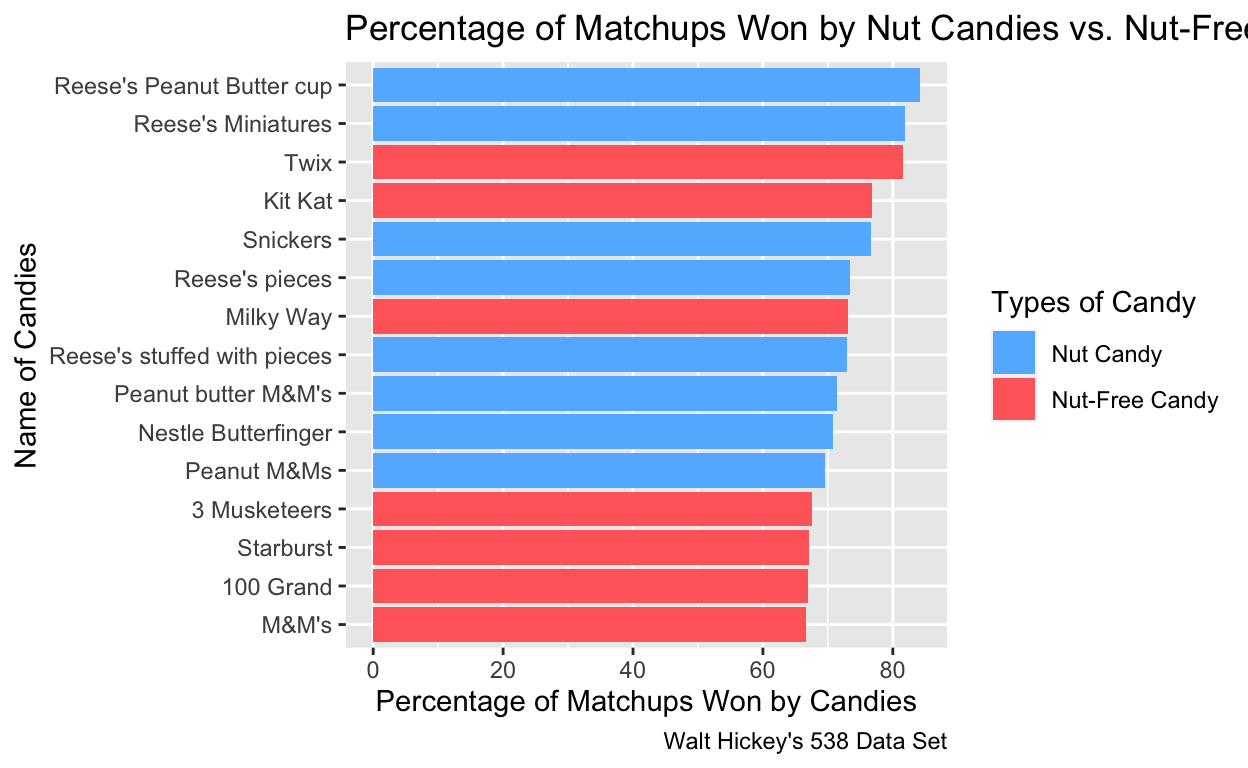
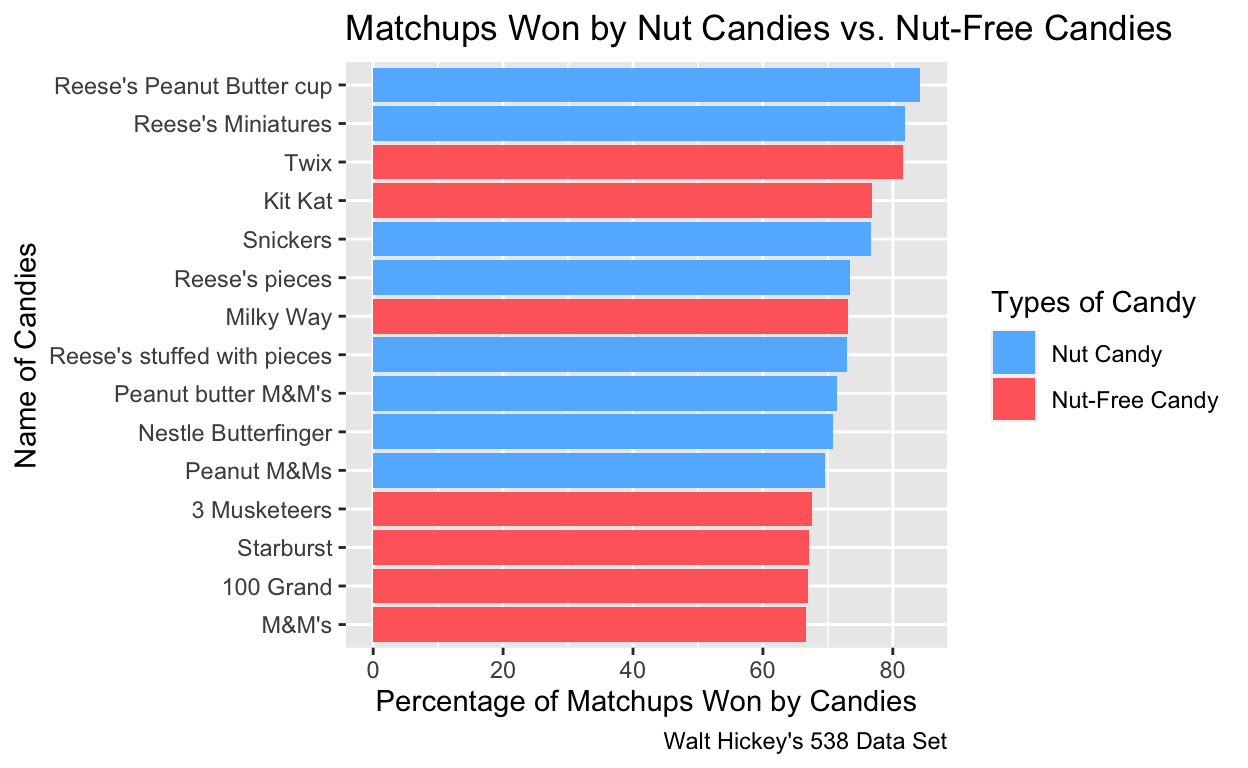
final project

Changed region(s): [[0.2812, 0.0, 1.0, 0.0625]]

diff --git a/index.html b/index.html
@@ -1518,11 +1518,10 @@ code span.wa { color: #5e5e5e; font-style: italic; } /* Warning */
 
 <div class="d-article">
 <h2 id="introduction">Introduction</h2>
-<p>For my final project, I explore data related to the popularity of Halloween candies containing peanuts and nuts, comparing them to the popularity of nut-free Halloween candy. My research question is: “Does the presence of peanuts or nuts in Halloween candy affect its popularity in preference matchups?” In this study, I plan to examine the impact of nut content on the popularity of Halloween candies by analyzing the results of an online preference matchup involving randomly generated candy matchups. I hypothesize that Halloween candies containing peanuts or nuts will be more popular in preference matchups compared to candies not containing peanuts or nuts. My hypothesis is based on the belief that the nutty flavor and crunchy texture, associated with candies containing peanuts or nuts, may lead to consumers having a more enhanced sensory experience. If I observe a larger percentage of matchups won by candies containing peanuts or nuts, then this would support my hypothesis. Conversely, if I observe a larger percentage of matchups won by candies not containing peanuts or nuts, then this would suggest my hypothesis would not be supported.</p>
+<p>For my final project, I explore data related to the popularity of Halloween candies containing peanuts or nuts, comparing them to the popularity of nut-free Halloween candy. My research question is: “Does the presence of peanuts or nuts in Halloween candy affect its popularity in preference matchups?” In this study, I plan to examine the impact of nut content on the popularity of Halloween candies by analyzing the results of an online preference matchup involving randomly generated candy matchups. I hypothesize that Halloween candies containing peanuts or nuts will be more popular in preference matchups compared to candies not containing peanuts or nuts. My hypothesis is based on the belief that the nutty flavor and crunchy texture, associated with candies containing peanuts or nuts, may lead to consumers having a more enhanced sensory experience. If I observe a larger percentage of matchups won by candies containing peanuts or nuts, then this would support my hypothesis. Conversely, if I observe a larger percentage of matchups won by candies not containing peanuts or nuts, then this suggests my hypothesis would not be supported.</p>
 <p>My research question is interesting and informative because it connects the popular Halloween tradition of trick-o-treating to a specific candy ingredient, thereby providing insights into the factors that make certain Halloween candies more popular among consumers. My analysis of the popularity of Halloween candies should help consumers make informed and cost-effective decisions when buying candy during the Halloween season. This will enable consumers to maximize money saved and minimize candy wasted, both of which are important amidst the current era of inflation and climate change.</p>
 <h2 id="data-and-research-method">Data and Research Method</h2>
-<p>The data source for this analysis is Walt Hickey’s 538 dataset on Halloween candy preferences, collected from an online preference matchup involving 8,371 different IP addresses and 269,000 randomly generated matchups. The dataset consists of 83 different candies, 13 of which contain peanuts or nuts, and each of the candies acts as an individual unit of analysis. The key independent variable is whether the candy contains peanuts or nuts, and is coded =1 for candies that contain peanuts or nuts and =0 for candies that do not contain peanuts or nuts. The key dependent variable is the popularity of each Halloween candy, measured by the percentage of matchups won in the online preference matchup where online participants were presented with pairs of candies and asked to choose their preferred candy from each pair. The research design is a cross-sectional design because the observational study compares the popularity of candies with nuts and nut free-candies after the online preference matchups have occurred.</p>
-<p>The following barplot visually summarizes the dependent variable by ranking the top 15 most popular Halloween candies in descending order of the percentage of online preference matchups they won. The bar plot supports my hypothesis that Halloween candies containing peanuts or nuts, classified as “Nut Candy” in blue, are more popular among consumers than candies not containing nuts, classified as “Nut-Free Candy” in red. This assertion gains support when considering that 8 out of the 13 total nut candies are among the top 15 candies, and these 8 nut candies maintained rankings within the top 11 spots, ranking as high as 1st, 2nd, and 5th.</p>
+<p>The data source for this analysis is Walt Hickey’s 538 dataset on Halloween candy preferences, collected from an online preference matchup involving 8,371 different IP addresses and 269,000 randomly generated matchups. The dataset consists of 83 different candies, 13 of which contain peanuts or nuts, and each of the candies acts as an individual unit of analysis. The key independent variable is whether the candy contains peanuts or nuts, and is coded =1 for candies that contain peanuts or nuts and =0 for nut-free candies. The key dependent variable is the popularity of each Halloween candy, measured by the percentage of matchups won in the online preference matchup where online participants were presented with pairs of candies and asked to choose their preferred candy from each pair. The research design is a cross-sectional design because the observational study compares the popularity of candies with nuts and nut free-candies after the online preference matchups have occurred.</p>
 <div class="layout-chunk" data-layout="l-body">
 <div class="sourceCode">
 <pre class="sourceCode r"><code class="sourceCode r"><span><span class='kw'><a href='https://rdrr.io/r/base/library.html'>library</a></span><span class='op'>(</span><span class='va'><a href='https://tidyverse.tidyverse.org'>tidyverse</a></span><span class='op'>)</span></span>
@@ -1541,12 +1540,14 @@ code span.wa { color: #5e5e5e; font-style: italic; } /* Warning */
 <span>  <span class='fu'><a href='https://ggplot2.tidyverse.org/reference/ggplot.html'>ggplot</a></span><span class='op'>(</span>mapping <span class='op'>=</span> <span class='fu'><a href='https://ggplot2.tidyverse.org/reference/aes.html'>aes</a></span><span class='op'>(</span>x <span class='op'>=</span> <span class='va'>winpercent</span>, y <span class='op'>=</span> <span class='fu'><a href='https://forcats.tidyverse.org/reference/fct_reorder.html'>fct_reorder</a></span><span class='op'>(</span><span class='va'>competitorname</span>, <span class='va'>winpercent</span><span class='op'>)</span>, fill <span class='op'>=</span><span class='va'>`Types of Candy`</span><span class='op'>)</span><span class='op'>)</span> <span class='op'>+</span></span>
 <span>  <span class='fu'><a href='https://ggplot2.tidyverse.org/reference/geom_bar.html'>geom_col</a></span><span class='op'>(</span><span class='op'>)</span> <span class='op'>+</span> </span>
 <span>  <span class='fu'><a href='https://ggplot2.tidyverse.org/reference/scale_manual.html'>scale_fill_manual</a></span><span class='op'>(</span>values <span class='op'>=</span> <span class='fu'><a href='https://rdrr.io/r/base/c.html'>c</a></span><span class='op'>(</span><span class='st'>"steelblue1"</span>,<span class='st'>"indianred1"</span><span class='op'>)</span><span class='op'>)</span> <span class='op'>+</span></span>
-<span>  <span class='fu'><a href='https://ggplot2.tidyverse.org/reference/labs.html'>labs</a></span><span class='op'>(</span>x <span class='op'>=</span> <span class='st'>"Percentage of Matchups Won by Candies"</span>, y <span class='op'>=</span> <span class='st'>"Name of Candies"</span>, title <span class='op'>=</span> <span class='st'>"Percentage of Matchups Won by Nut Candies vs. Nut-Free Candies"</span>, caption <span class='op'>=</span> <span class='st'>"Walt Hickey's 538 Data Set"</span><span class='op'>)</span></span>
+<span>  <span class='fu'><a href='https://ggplot2.tidyverse.org/reference/labs.html'>labs</a></span><span class='op'>(</span>x <span class='op'>=</span> <span class='st'>"Percentage of Matchups Won by Candies"</span>, y <span class='op'>=</span> <span class='st'>"Name of Candies"</span>, </span>
+<span>       title <span class='op'>=</span> <span class='st'>"Matchups Won by Nut Candies vs. Nut-Free Candies"</span>, </span>
+<span>       caption <span class='op'>=</span> <span class='st'>"Walt Hickey's 538 Data Set"</span><span class='op'>)</span></span>
 <span><span class='va'>candy_rankings_graph</span></span></code></pre>
 </div>
 <p><img src="index_files/figure-html5/unnamed-chunk-1-1.png" width="624" /></p>
 </div>
-<p>The estimated average treatment effect (ATE) is 15.77, meaning that the candies containing peanuts or nuts (the treatment group) won more matchups than nut-free candies (the control group) by 15.77 points. Ultimately, the barplot and the ATE calculation demonstrate compelling evidence that candies containing peanuts or nuts are more popular among treat-seeking consumers during the Halloween season.</p>
+<p>This barplot visually summarizes the dependent variable by ranking the top 15 most popular Halloween candies in descending order of the percentage of online preference matchups they won. The bar plot supports my hypothesis that Halloween candies containing peanuts or nuts, classified as “Nut Candy” in blue, are more popular among consumers than candies not containing nuts, classified as “Nut-Free Candy” in red. This assertion gains support when considering that 8 out of the 13 total nut candies are among the top 15 candies, and these 8 nut candies maintained rankings within the top 11 spots, ranking as high as 1st, 2nd, and 5th.</p>
 <div class="layout-chunk" data-layout="l-body">
 <div class="sourceCode">
 <pre class="sourceCode r"><code class="sourceCode r"><span><span class='va'>nuts</span> <span class='op'>&lt;-</span> <span class='va'>candy_rankings</span> <span class='op'>|&gt;</span> </span>
@@ -1578,8 +1579,8 @@ code span.wa { color: #5e5e5e; font-style: italic; } /* Warning */
 </tbody>
 </table>
 </div>
+<p>The estimated average treatment effect (ATE) is 15.77, meaning that the candies containing peanuts or nuts (the treatment group) won more matchups than nut-free candies (the control group) by 15.77 points. Ultimately, the barplot and the ATE calculation demonstrate compelling evidence that candies containing peanuts or nuts are more popular among treat-seeking consumers during the Halloween season.</p>
 <h2 id="results">Results</h2>
-<p>In order to test the strength of the barplot’s finding that candies with nuts are more popular among consumers, I ran a linear regression examining the relationship between the percentage of sugar in candies and the percentage of online preference matchups won. The following scatter plot indicates a strong correlation between higher sugar content and increased popularity in matchups. Notably, the upper right quadrant, representing candies with above-average sugar content and high matchups won, features 8 out of the 13 total nut candies. This suggests that nut candies not only tend to be sweeter but also outperform nut-free candies, even in the presence of elevated sugar levels. These findings suggest a preference for the combination of nutty flavors, crunchy texture, and increased sweetness in Halloween candies.</p>
 <div class="layout-chunk" data-layout="l-body">
 <div class="sourceCode">
 <pre class="sourceCode r"><code class="sourceCode r"><span><span class='va'>candy_rankings</span> <span class='op'>&lt;-</span> <span class='va'>candy</span> <span class='op'>|&gt;</span> </span>
@@ -1594,12 +1595,14 @@ code span.wa { color: #5e5e5e; font-style: italic; } /* Warning */
 <span>  <span class='fu'><a href='https://ggplot2.tidyverse.org/reference/geom_smooth.html'>geom_smooth</a></span><span class='op'>(</span>method <span class='op'>=</span> <span class='st'>"lm"</span>, se <span class='op'>=</span> <span class='cn'>FALSE</span>, color <span class='op'>=</span> <span class='st'>"black"</span><span class='op'>)</span> <span class='op'>+</span> </span>
 <span>  <span class='fu'><a href='https://ggplot2.tidyverse.org/reference/geom_abline.html'>geom_hline</a></span><span class='op'>(</span>yintercept <span class='op'>=</span> <span class='fu'><a href='https://rdrr.io/r/base/mean.html'>mean</a></span><span class='op'>(</span><span class='va'>candy_rankings</span><span class='op'>$</span><span class='va'>winpercent</span><span class='op'>)</span>, linetype <span class='op'>=</span> <span class='st'>"dashed"</span><span class='op'>)</span> <span class='op'>+</span> </span>
 <span>  <span class='fu'><a href='https://ggplot2.tidyverse.org/reference/geom_abline.html'>geom_vline</a></span><span class='op'>(</span>xintercept <span class='op'>=</span> <span class='fu'><a href='https://rdrr.io/r/base/mean.html'>mean</a></span><span class='op'>(</span><span class='va'>candy_rankings</span><span class='op'>$</span><span class='va'>sugarpercent</span><span class='op'>)</span>, linetype <span class='op'>=</span> <span class='st'>"dashed"</span><span class='op'>)</span> <span class='op'>+</span> </span>
-<span>  <span class='fu'><a href='https://ggplot2.tidyverse.org/reference/labs.html'>labs</a></span><span class='op'>(</span>x <span class='op'>=</span> <span class='st'>"Percentile of Sugar Content in Candies"</span>, y <span class='op'>=</span> <span class='st'>"Percentile of Matchups Won by Candies"</span>, title <span class='op'>=</span> <span class='st'>"Percentile of Sugar Content in Candies vs. Percentile of Matchups Won by Candies"</span>, caption <span class='op'>=</span> <span class='st'>"Walt Hickey's 538 Data Set"</span><span class='op'>)</span></span>
+<span>  <span class='fu'><a href='https://ggplot2.tidyverse.org/reference/labs.html'>labs</a></span><span class='op'>(</span>x <span class='op'>=</span> <span class='st'>"Percentile of Sugar Content in Candies"</span>, y <span class='op'>=</span> <span class='st'>"Percentile of Matchups Won by Candies"</span>, </span>
+<span>       title <span class='op'>=</span> <span class='st'>"Sugar Content in Candies vs. Percentile of Matchups Won by Candies"</span>, </span>
+<span>       caption <span class='op'>=</span> <span class='st'>"Walt Hickey's 538 Data Set"</span><span class='op'>)</span></span>
 <span><span class='va'>sugar_vs_win_graph</span> </span></code></pre>
 </div>
 <p><img src="index_files/figure-html5/unnamed-chunk-3-1.png" width="624" /></p>
 </div>
-<p>This table shows that the coefficient estimate for sugar percent in the regression is 11.08, indicating a positive association. This means that a one unit increase in sugar percent results in a 11.08 increase in the percentage of matchups won. Furthermore, the p-value in the regression is 0.06, which is greater than the alpha level of 0.05 and therefore not statistically significant. Based on this information, the coefficient of interest for sugar percent does not represent a causal effect as there may be confounders which could bias the study’s results. These confounders could include: name-brand recognition, regional or demographic preferences, and nut-allergies, which would cause participants to automatically prefer nut-free candies.</p>
+<p>In order to test the strength of the barplot’s finding that candies with nuts are more popular among consumers, I ran a linear regression examining the relationship between the percentage of sugar in candies and the percentage of online preference matchups won. The scatterplot indicates a strong correlation between higher sugar content and increased popularity in matchups. Notably, the upper right quadrant, representing candies with above-average sugar content and high matchups won, features 8 out of the 13 total nut candies. This suggests that nut candies not only tend to be sweeter but also outperform nut-free candies, even in the presence of elevated sugar levels. These findings suggest a preference for the combination of nutty flavors, crunchy texture, and increased sweetness in Halloween candies.</p>
 <div class="layout-chunk" data-layout="l-body">
 <div class="sourceCode">
 <pre class="sourceCode r"><code class="sourceCode r"><span><span class='va'>fit</span> <span class='op'>&lt;-</span> <span class='fu'><a href='https://rdrr.io/r/stats/lm.html'>lm</a></span><span class='op'>(</span><span class='va'>winpercent</span> <span class='op'>~</span> <span class='va'>sugarpercent</span>, data <span class='op'>=</span> <span class='va'>candy_rankings</span><span class='op'>)</span> <span class='op'>|&gt;</span> </span>
@@ -1613,7 +1616,9 @@ code span.wa { color: #5e5e5e; font-style: italic; } /* Warning */
 1 (Intercept)   45.2  3.26 4.29e-23
 2 sugarpercent  11.1  5.80 5.96e- 2</code></pre>
 <div class="sourceCode">
-<pre class="sourceCode r"><code class="sourceCode r"><span><span class='fu'>knitr</span><span class='fu'>::</span><span class='fu'><a href='https://rdrr.io/pkg/knitr/man/kable.html'>kable</a></span><span class='op'>(</span><span class='va'>fit</span>, digits <span class='op'>=</span> <span class='fl'>3</span>, col.names <span class='op'>=</span> <span class='fu'><a href='https://rdrr.io/r/base/c.html'>c</a></span><span class='op'>(</span><span class='st'>"Variable"</span>, <span class='st'>"Coefficient Estimate"</span>, <span class='st'>"Standard Error"</span>, <span class='st'>"P-Value"</span><span class='op'>)</span><span class='op'>)</span></span></code></pre>
+<pre class="sourceCode r"><code class="sourceCode r"><span><span class='fu'>knitr</span><span class='fu'>::</span><span class='fu'><a href='https://rdrr.io/pkg/knitr/man/kable.html'>kable</a></span><span class='op'>(</span><span class='va'>fit</span>, digits <span class='op'>=</span> <span class='fl'>3</span>, </span>
+<span>             col.names <span class='op'>=</span> <span class='fu'><a href='https://rdrr.io/r/base/c.html'>c</a></span><span class='op'>(</span><span class='st'>"Variable"</span>, <span class='st'>"Coefficient Estimate"</span>, </span>
+<span>                           <span class='st'>"Standard Error"</span>, <span class='st'>"P-Value"</span><span class='op'>)</span><span class='op'>)</span></span></code></pre>
 </div>
 <table>
 <thead>
@@ -1640,8 +1645,9 @@ code span.wa { color: #5e5e5e; font-style: italic; } /* Warning */
 </tbody>
 </table>
 </div>
+<p>This table shows that the coefficient estimate for sugar percent in the regression is 11.08, indicating a strong positive association. This means that a one unit increase in sugar percent results in a 11.08 increase in the percentage of matchups won. Furthermore, the p-value in the regression is 0.06, which is greater than the alpha level of 0.05 and therefore not statistically significant. Based on this information, the coefficient of interest for sugar percent does not represent a causal effect as there may be confounders which could bias the study’s results. These confounders could include: name-brand recognition, regional or demographic preferences, and nut-allergies, which would cause participants to automatically prefer nut-free candies.</p>
 <h2 id="conclusion">Conclusion</h2>
-<p>The results of the barplot and scatterplot both demonstrated a positive correlation between candies containing peanuts or nuts and higher percentages of matchups won, and, particularly, the scatterplot demonstrated that even in the presence of elevated sugar levels, candies containing peanuts or nuts still had a higher percentage of matchups won. While both of these plots support my hypothesis, the p-value from the regression was not statistically significant, and therefore, the coefficient of interest could not be causally interpreted, thereby weakening the strength of my hypothesis. This is likely due to the potential limitations of the study, including confounders such as name-brand recognition, regional or demographic preferences, and nut-allergies. Additionally, due to the online nature of the sample, the sample may have been unrepresentative since the 8,371 different IP addresses may have been concentrated in certain regions and among certain demographics, such as not being representative of participants with nut allergies. If there were more time and money, this study could be improved by taking a larger sample which would encapsulate a wider variety of regions and demographics, and by conducting the study as a longitudinal study which would analyze trends in Halloween candy preferences over time.</p>
+<p>The results of the barplot and scatterplot both demonstrate a positive correlation between candies containing peanuts or nuts and higher percentages of matchups won, and, particularly, the scatterplot demonstrates that even in the presence of elevated sugar levels, candies containing peanuts or nuts still had a higher percentage of matchups won. While both of these plots support my hypothesis, the p-value from the regression was not statistically significant, and therefore, the coefficient of interest could not be causally interpreted, thereby weakening the strength of my hypothesis. This is likely due to the potential limitations of the study, including confounders such as name-brand recognition, regional or demographic preferences, and nut-allergies. Additionally, due to the online nature of the sample, the sample may have been unrepresentative since the 8,371 different IP addresses may have been concentrated in certain regions and among certain demographics. If there were more time and money, this study could be improved by taking a larger sample which would encapsulate a wider variety of regions and demographics, and by conducting the study as a longitudinal study which would analyze trends in Halloween candy preferences over time.</p>
 <div class="sourceCode" id="cb3"><pre class="sourceCode r distill-force-highlighting-css"><code class="sourceCode r"></code></pre></div>
 <!--radix_placeholder_article_footer-->
 <!--/radix_placeholder_article_footer-->
